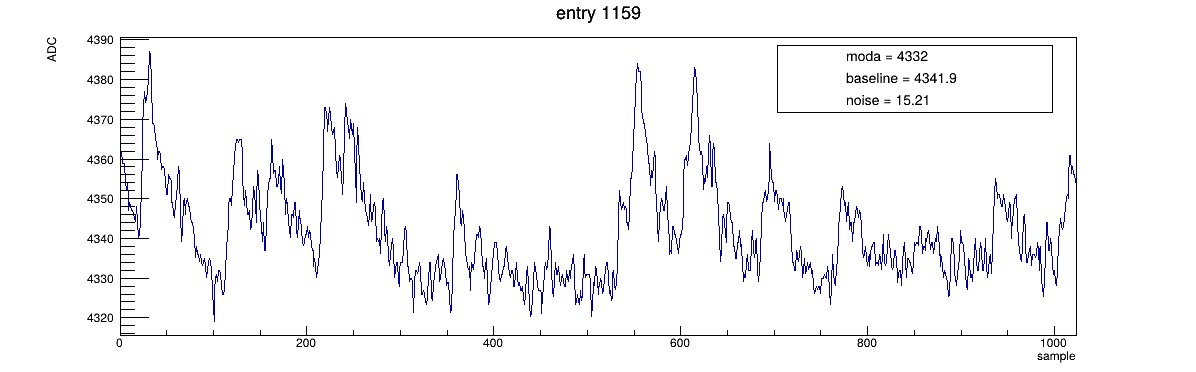
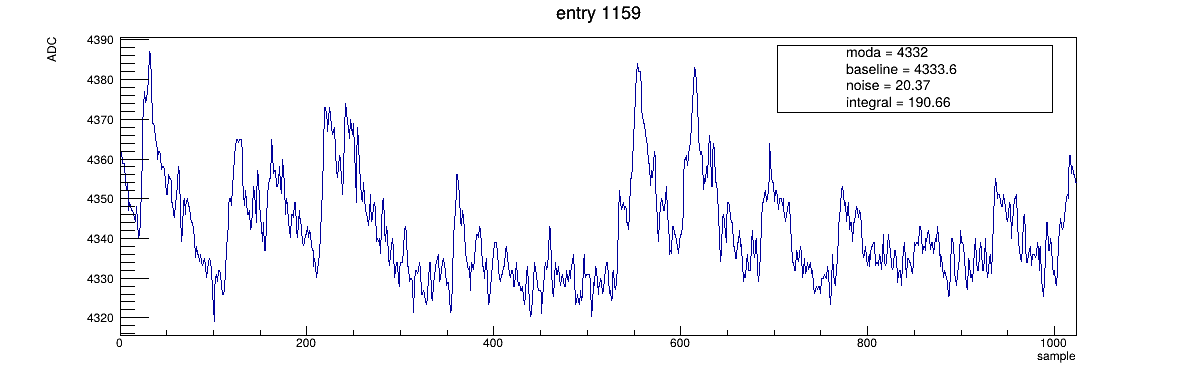
[correcting last one]

Changed region(s): [[0.7115, 0.1183, 0.8043, 0.2957]]

diff --git a/calib/read_waveforms.cpp b/calib/read_waveforms.cpp
@@ -9,7 +9,7 @@
 #include <vector>
 #include <map>
 #include <algorithm>
-#include "aux/waveform_utils.cpp" 
+#include "aux/waveform_utils.h" 
 #include "TStyle.h"
  
 
@@ -50,6 +50,26 @@ int main(){
 
 
     int n_ch = 0;
+
+    // output .root
+    TFile* fout = new TFile("metrics_ch1050.root", "RECREATE");
+    TTree* tout = new TTree("Metrics", "per-waveform metrics, channel 1050");
+
+    double o_baseline, o_noise, o_integral;
+    double o_pre_min, o_pre_max, o_sig_min, o_sig_max, o_post_min, o_post_max;
+    short  o_mode;
+
+    tout->Branch("mode",     &o_mode);
+    tout->Branch("baseline", &o_baseline);
+    tout->Branch("noise",    &o_noise);
+    tout->Branch("integral", &o_integral);
+    tout->Branch("pre_min",  &o_pre_min);
+    tout->Branch("pre_max",  &o_pre_max);
+    tout->Branch("sig_min",  &o_sig_min);
+    tout->Branch("sig_max",  &o_sig_max);
+    tout->Branch("post_min", &o_post_min);
+    tout->Branch("post_max", &o_post_max);
+
     for (Long64_t i = 0; i < nEntries; ++i){
         run_calib->GetEntry(i);
 
@@ -66,6 +86,16 @@ int main(){
         compute_minmax(*adc, baseline, 0,   239,  pre_min,  pre_max);   // pre-signal (n=240)
         compute_minmax(*adc, baseline, 300, 1023, sig_min,  sig_max);   // signal
         compute_minmax(*adc, baseline, 350, 1023, post_min, post_max);  // post-signal
+
+        // save in output.root
+        o_mode     = mode;
+        o_baseline = baseline;
+        o_noise    = std;
+        o_integral = integral;
+        o_pre_min  = pre_min;  o_pre_max  = pre_max;
+        o_sig_min  = sig_min;  o_sig_max  = sig_max;
+        o_post_min = post_min; o_post_max = post_max;
+        tout->Fill();
 
         for (int s = 0; s < n; s++)
             h2->Fill(s, (*adc)[s] - baseline);
@@ -94,6 +124,8 @@ int main(){
             leg->AddEntry((TObject*)nullptr, Form("moda = %d", mode), "");
             leg->AddEntry((TObject*)nullptr, Form("baseline = %.1f", baseline), "");
             leg->AddEntry((TObject*)nullptr, Form("noise = %.2f", std), "");
+            leg->AddEntry((TObject*)nullptr, Form("integral = %.2f", integral), "");
+            
             leg->Draw();
 
             c->SaveAs(Form("plots/raw_wfs/wf_%lld.png", i));
@@ -104,10 +136,14 @@ int main(){
     }
 
     TCanvas* cp = new TCanvas("cp", "cp", 1200, 700);
-    cp->SetLogz();              // escala de cor log, como no plot que você quer reproduzir
+    cp->SetLogz();              
     h2->Draw("colz");
-    cp->SaveAs("plots/ADC-baseline_1050.png");
+    cp->SaveAs("plots/adc-baseline/ADC-baseline_1050.png");
     delete cp; delete h2;
+
+    fout->cd();      
+    tout->Write();   
+    fout->Close();  
 
     delete run_calib;
     return 0;

diff --git a/calib/aux/waveform_utils.cpp b/calib/aux/waveform_utils.cpp
@@ -32,3 +32,29 @@ double noise(const std::vector<short>& adc, short n, double baseline){
     noise = std::sqrt(sqr_dif / n);
     return noise;
 }
+
+double compute_integral(const std::vector<short>& adc, double baseline, int n1, int n2) {
+    double integral = 0.0;
+    int sz = adc.size();
+    int end = std::min(sz, n2 + 1);
+    
+    for (int i = n1; i < end; ++i) {
+        integral += (adc[i] - baseline);
+    }
+    return integral;
+}
+
+void compute_minmax(const std::vector<short>& adc, double baseline, int n1, int n2, double& vmin, double& vmax) {
+    vmin = 1e9;   // initialize with high value
+    vmax = -1e9; // initialize with low value
+    
+    int sz = adc.size();
+    if (sz == 0 || n1 >= sz) return;
+    
+    int end = std::min(sz, n2 + 1);
+    for (int i = n1; i < end; ++i) {
+        double val = adc[i] - baseline;
+        if (val < vmin) vmin = val;
+        if (val > vmax) vmax = val;
+    }
+}

diff --git a/calib/aux/waveform_utils.h b/calib/aux/waveform_utils.h
@@ -2,8 +2,8 @@
 #include <vector>
 
 short mode_of(const std::vector<short>& v);
-double compute_baseline(const std::vector<short>& adc, int c, int t, int mode);
-double noise(const std::vector<short>& adc, short n, short baseline);
+double compute_baseline(const std::vector<short>& adc, int c, int t, short mode);
+double noise(const std::vector<short>& adc, short n, double baseline);
 double compute_integral(const std::vector<short>& adc, double baseline, int n1, int n2);
 void   compute_minmax(const std::vector<short>& adc, double baseline,
                       int n1, int n2, double& vmin, double& vmax);
